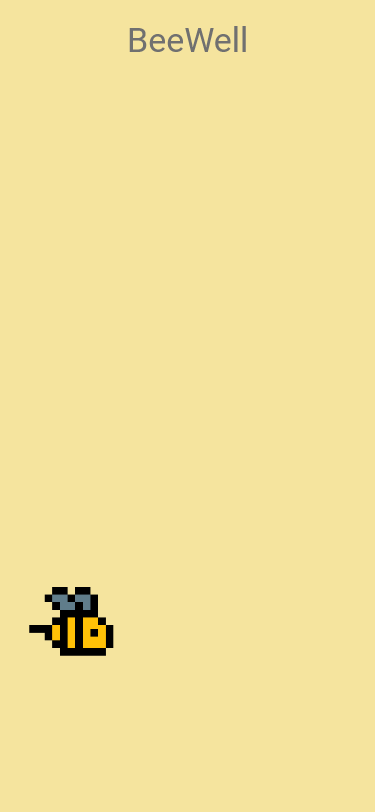
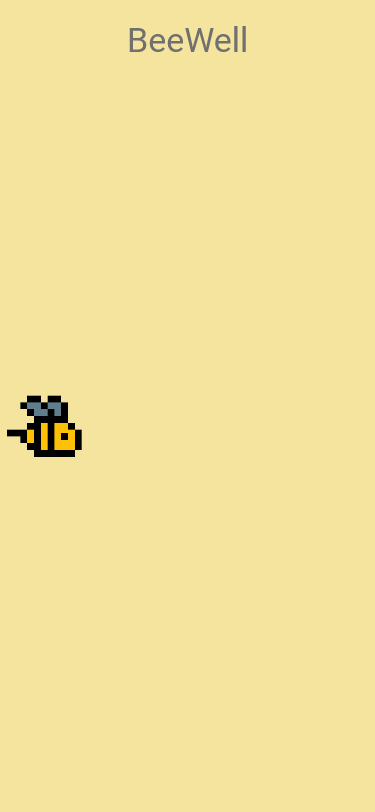
changes to form page

Changed region(s): [[0.0587, 0.7081, 0.3227, 0.8313], [0.0, 0.4618, 0.2347, 0.585]]

diff --git a/styleform.css b/styleform.css
@@ -42,7 +42,7 @@ img {
 
 #bedtime {
 	display: block;
-	margin-top: 170%;
+	margin-top: 90%;
 }
 
 #inputdiv {
@@ -56,7 +56,7 @@ img {
 	font-size: 20px;
 	position: absolute;
 	margin-left: 10%;
-	margin-top: 55%;
+	margin-top: 45%;
 }
 
 #inputdiv3 {
